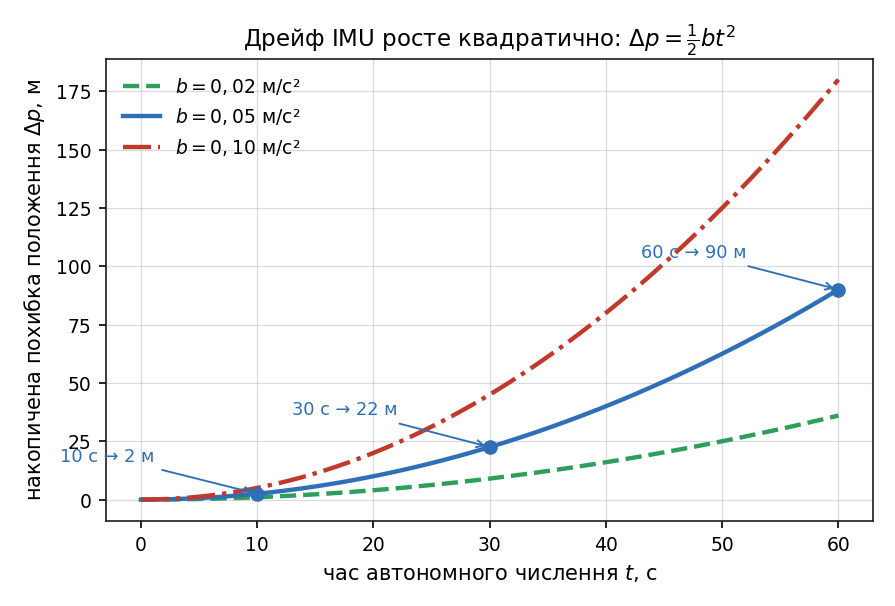
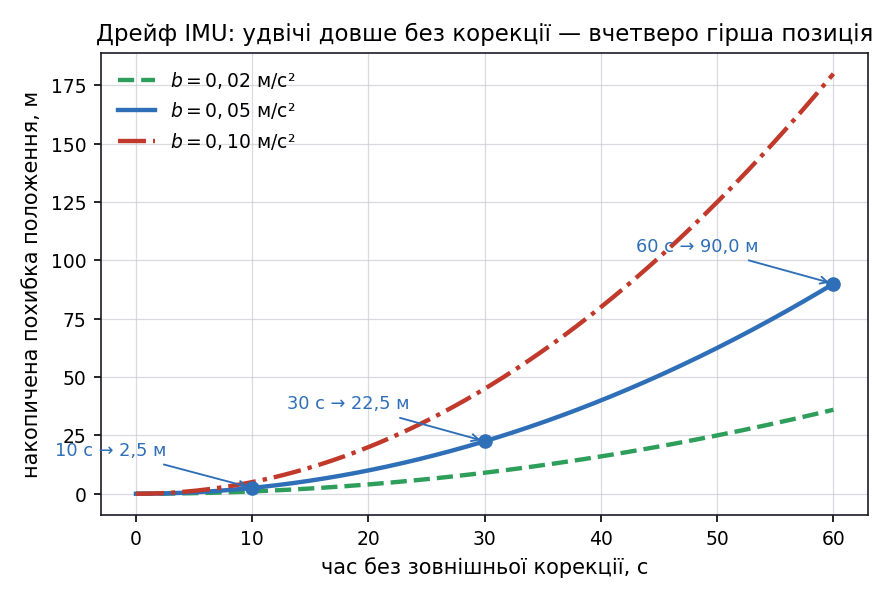
Третє рев'ю: звужено висновок "Колони", узгоджено рисунки з текстом
Найважливіше. Картка "Колона" робила висновок, якого дослід не показує.
У viz/m03b.py обидві панелі мають ОДНАКОВУ структуру (кожен бачить лише
попереднього), змінюються тільки kp і kd. Тому твердження "довга колона -
погана конструкція незалежно від якості регуляторів" і "лікується
трансляцією стану лідера" не випливали з графіка: права панель - та сама
колона, і збурення в ній згасає. Висновок звужено до показаного:
передавання ланцюжком МОЖЕ підсилювати збурення, налаштування це змінює,
перевіряти треба реакцію всієї групи. Трансляція лідера названа відомою
конструктивною мірою, якої цей дослід не перевіряв.

Рисунки суперечили тексту - виправлено у скриптах і перегенеровано:
- m03-leader-follower, m03-string-stability: "відомий" -> "ведений"
  (помилка українського слова в підписах);
- m02-consensus: підписи 12,1 і 3,3 с - це оцінка ln(100)/lambda2, тоді як
  на самому графіку й у коді картки 9,96 і 2,82 с. Тепер підпис рахується
  тією самою симуляцією, що й код лекції;
- m02-imu-drift: підписи 2 і 22 м проти 2,5 і 22,5 м у таблиці (формат
  .0f); заголовок звільнено від формули;
- m02-kalman: заголовок стверджував "оцінка точніша за обидва джерела" -
  формулювання, зняте з тексту як некоректне;
- m02-thrust-margin: був гексакоптер 1,535 кг і нез'ясований "мінімум для
  керованості 5 Н", тоді як картка вже про Crazyflie. Перемальовано;
- m02-damping: прибрано lambda і норми стану, вісь у відсотках.
[…]

diff --git a/lectures/02.md b/lectures/02.md
@@ -75,7 +75,7 @@ $$F_{\text{верт}} = F\cos\gamma, \qquad F_{\text{гориз}} = F\sin\gamma$
 | Матриця повороту | 9 | прямо перетворює вектори між системами | перерахунок сил, комп'ютерний зір |
 | Кватерніон | 4 | компактний, без особливих положень | внутрішній стан автопілота |
 
-У кутів Ейлера є особливе положення, *gimbal lock*: біля вертикального тангажа два з трьох кутів починають описувати той самий поворот, і однозначно розкласти орієнтацію вже не вдається. Тому всередині автопілота орієнтацію тримають не в кутах: рахують кватерніоном, перетворюють матрицею, показують оператору кути.
+У кутів Ейлера є особливе положення, *gimbal lock*: у вертикальному тангажі два з трьох кутів описують той самий поворот, і розкласти орієнтацію однозначно неможливо. Поблизу цього положення розклад ще існує, але стає дедалі чутливішим до похибок. Тому всередині автопілота орієнтацію тримають не в кутах: рахують кватерніоном, перетворюють матрицею, показують оператору кути.
 
 **Це знадобиться в Модулі 06:** у вектор спостереження навченої політики подають матрицю повороту, а не кути. Причина інша, ніж *gimbal lock*: кут стрибає з $+180°$ на $-180°$ при плавному повороті, і мережі важко вчитися на вході з таким розривом.
 
@@ -96,7 +96,7 @@ $$F_{\text{верт}} = F\cos\gamma, \qquad F_{\text{гориз}} = F\sin\gamma$
 
 **Мультикоптер у висінні сам собою в рівновазі не тримається.** Похилившись, він не вирівнюється: тяга вже має горизонтальну складову, апарат рушає вбік і продовжує відхилятися. Повертає його тільки замкнений контур, який швидко міряє кути й підправляє тягу окремих гвинтів.
 
-Звідси наслідок для всього курсу: **навчена політика не керує моторами напряму.** Під нею лишається внутрішній контур стабілізації, а політика задає йому завдання вищого рівня. У цьому курсі це **сумарна тяга й кутові швидкості** — так зроблено в Модулі 06 і в лабораторних.
+Звідси наслідок для всього курсу: **навчена політика не керує моторами напряму.** Під нею лишається внутрішній контур стабілізації, а політика задає йому завдання вищого рівня. Конкретний набір залежить від задачі: у лабораторній 2 політика видає **одне число** — нормовану тягу, а кути тримає бортовий регулятор; у Модулі 06 розглядаємо ширший інтерфейс із тягою й кутовими швидкостями.
 
 ### Наскільки швидко апарат повертається
 
@@ -136,7 +136,7 @@ $$u = k_p\,e + k_i\!\int e\,dt + k_d\,\dot e$$
 </Figure>
 
 
-Саме тому під постійним вітром потрібна інтегральна складова: чисто пропорційний регулятор зупинить апарат там, де його реакція зрівноважить вітер, із похибкою $e_{\text{ст}} = d/k_p$. Для вітру 0,6 Н і $k_p = 6$ Н/м це 0,10 м.
+Саме тому під **невідомим наперед** постійним збуренням потрібна інтегральна складова: чисто пропорційний регулятор зупинить апарат там, де його реакція зрівноважить вітер, із похибкою $e_{\text{ст}} = d/k_p$. Для вітру 0,6 Н і $k_p = 6$ Н/м це 0,10 м.
 
 Важливий виняток, який ви побачите в ЛР 1: якщо постійне навантаження **відоме наперед**, його компенсують не інтегратором, а доданком наперед — у контурі висоти до керування просто додають $mg$. Інтегральна складова потрібна для того, чого не знали заздалегідь: вітру, похибки маси, зміщення центра.
 
@@ -329,18 +329,18 @@ for name, E in topo.items():
 
 | **Звучить так** | **Насправді** |
 |---|---|
-| «Автопілот — це зручність, апарат і сам полетить» | Без контуру стабілізації мультикоптер у висінні не тримається взагалі |
-| «Є GPS — навіщо якийсь фільтр» | GPS шумить, у приміщенні зникає, а інерціальні датчики спливають. Фільтр зшиває їх у щось краще за кожен окремо |
-| «Контур стійкий, отже добрий» | Стійкий контур може прибирати відхилення 6 секунд замість 1,5. Рій за цей час розсиплеться |
-| «Більше каналів зв'язку — швидше узгодження» | Зірка й ланцюг мають однакові чотири ребра, а збираються з різницею вдвічі. Важить розстановка, не кількість |
-| «Кути Ейлера застаріли, всі рахують кватерніонами» | Оператору показують саме кути. Усередині рахують інше — і це не суперечність, а розподіл ролей |
+| «Автопілот — це зручність, апарат і сам полетить» | Без стабілізації збурення не гасяться: похилившись, апарат рушає вбік і відхиляється далі |
+| «Є GPS — навіщо якийсь фільтр» | GPS шумить і в приміщенні зникає, інерціальні датчики спливають. Фільтр поєднує прогноз і вимірювання з урахуванням їхньої невизначеності |
+| «Контур стійкий, отже добрий» | Стійкий контур може прибирати відхилення 6 секунд замість 1,5 — і не вкластися у вимоги задачі |
+| «Більше каналів зв'язку — швидше узгодження» | Самого підрахунку ребер замало: зірка й ланцюг мають по чотири, а збираються з різницею вдвічі. Важать і кількість, і розстановка, і ваги |
+| «Кути Ейлера застаріли, всі рахують кватерніонами» | Зазвичай оператору показують кути, а всередині рахують інше. Це не суперечність, а різні представлення під різні задачі |
 
 ### Висновки: що з цього повернеться далі
 
 | **Тема лекції** | **Де знадобиться** |
 |---|---|
 | ПІД, три показники якості, тяга ↔ оберти, компенсація ваги | **лабораторна 1**: висіння й налаштування регулятора |
-| Під політикою лишається контур стабілізації; політика задає тягу й кутові швидкості | Модуль 06 і всі лабораторні з навчанням |
+| Під політикою лишається контур стабілізації; вона задає завдання, а не сигнали моторів | Модуль 06 (тяга й кутові швидкості), ЛР 2 (одна нормована тяга) |
 | Матриця повороту замість кутів Ейлера | Модуль 06: вектор спостереження політики |
 | Дрейф датчиків, фільтр Калмана | Модуль 04: чому спостереження не дорівнює станові |
 | Лапласіан, $\lambda_2$, консенсус | Модуль 03 (стрій), Модулі 10 і 11 (метрики зв'язності) |
